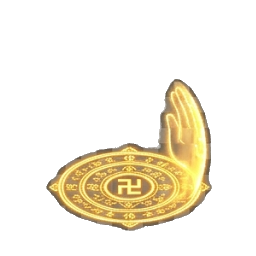
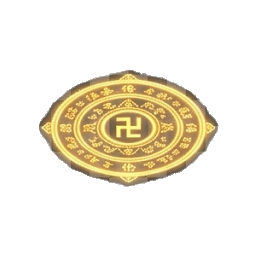
Use 16-frame pre-rendered rotation spritesheet from updated source sheet for La Han Tran

diff --git a/src/game/player.test.js b/src/game/player.test.js
@@ -338,7 +338,7 @@ describe("Player movement controls", () => {
     expect(mockScene.anims.create).toHaveBeenCalledWith(
       expect.objectContaining({
         key: "vfx-la-han-tran-spin",
-        frameRate: 10,
+        frameRate: 12,
         repeat: -1
       })
     );

diff --git a/src/game/remotePlayer.js b/src/game/remotePlayer.js
@@ -271,7 +271,7 @@ export class RemotePlayer {
         this.scene.anims.create({
           key: animKey,
           frames,
-          frameRate: 10,
+          frameRate: 12,
           repeat: -1
         });
       }

diff --git a/src/game/player.js b/src/game/player.js
@@ -600,7 +600,7 @@ export class Player {
         this.scene.anims.create({
           key: animKey,
           frames,
-          frameRate: 10,
+          frameRate: 12,
           repeat: -1
         });
       }

diff --git a/src/game/skills.js b/src/game/skills.js
@@ -80,7 +80,7 @@ const THIEU_LAM_SKILLS = [
       color: 0xffd166,
       shake: 0,
       scale: 0.85,
-      fps: 10
+      fps: 12
     }
   }
 ];

diff --git a/scripts/build_skill_la_han_tran.py b/scripts/build_skill_la_han_tran.py
@@ -1,30 +1,18 @@
-"""Extract and build La Hán Trận VFX spritesheet and icon from Row 2 of the art sheet.
+"""Extract and build La Hán Trận VFX spritesheet and icon from the 16-frame formation sheet.
 
 Run: python3 scripts/build_skill_la_han_tran.py
 """
 
-from collections import deque
 from pathlib import Path
 import numpy as np
 from PIL import Image
 
 ROOT = Path(__file__).resolve().parent.parent
-SOURCE_PATH = Path("/var/folders/zz/38wct_p13gz3pb0f2jmy1h140000gn/T/orca-paste-1792568787980-e88d15ab-99e4-4530-9330-5f1cf34ec4a0.png")
+SOURCE_PATH = Path("/var/folders/zz/38wct_p13gz3pb0f2jmy1h140000gn/T/orca-paste-1792575332575-fe827c2e-aadf-43ec-890a-0a8a4cc87122.png")
 VFX_DIR = ROOT / "public" / "skills" / "vfx" / "la_han_tran"
 ICON_PATH = ROOT / "public" / "skills" / "la_han_tran.png"
 
-ROW_Y0 = 258
-ROW_Y1 = 506
-BASE_Y = 505
-TARGET_BASE_Y = 230
-
-COL_BOUNDS = [
-    (0, 186),
-    (187, 380),
-    (381, 575),
-    (576, 765)
-]
-CENTERS_X = [92.5, 289.0, 481.0, 670.5]
+COL_BOUNDS = [(0, 189), (189, 380), (380, 572), (572, 765)]
 
 
 def key_cell(raw):
@@ -69,38 +57,46 @@ def build():
     sheet_src = Image.open(SOURCE_PATH).convert("RGB")
     src_arr = np.array(sheet_src)
 
-    sheet = Image.new("RGBA", (1024, 256), (0, 0, 0, 0))
+    sheet = Image.new("RGBA", (1024, 1024), (0, 0, 0, 0))
     frames = []
 
-    for i, (x0, x1) in enumerate(COL_BOUNDS):
-        cx = CENTERS_X[i]
-        raw = src_arr[ROW_Y0:ROW_Y1, x0:x1]
-        keyed = key_cell(raw)
+    for r in range(4):
+        y0 = r * 256
+        y1 = (r + 1) * 256
+        for c in range(4):
+            x0, x1 = COL_BOUNDS[c]
+            raw = src_arr[y0:y1, x0:x1]
+            keyed = key_cell(raw)
+            alpha = keyed[:, :, 3].copy()
+            de_fringe(alpha, keyed[:, :, :3].astype(int))
+            keyed[:, :, 3] = alpha
 
-        alpha = keyed[:, :, 3].copy()
-        de_fringe(alpha, keyed[:, :, :3].astype(int))
-        keyed[:, :, 3] = alpha
+            # Find exact centroid of this cell
+            y_idx, x_idx = np.where(alpha > 30)
+            cx_cell = x_idx.mean() if len(x_idx) > 0 else (x1 - x0) / 2
+            cy_cell = y_idx.mean() if len(y_idx) > 0 else 128
 
-        frame = Image.new("RGBA", (256, 256), (0, 0, 0, 0))
-        dst_x = int(round(128 - (cx - x0)))
-        dst_y = TARGET_BASE_Y - (BASE_Y - ROW_Y0)
-        frame.paste(Image.fromarray(keyed, "RGBA"), (dst_x, dst_y))
+            frame = Image.new("RGBA", (256, 256), (0, 0, 0, 0))
+            dst_x = int(round(128 - cx_cell))
+            dst_y = int(round(128 - cy_cell))
+            frame.paste(Image.fromarray(keyed, "RGBA"), (dst_x, dst_y))
 
-        frame_path = VFX_DIR / f"frame-{i + 1}.png"
-        frame.save(frame_path)
-        frames.append(frame)
-        sheet.paste(frame, (i * 256, 0))
+            frames.append(frame)
+            idx = r * 4 + c
+            col = idx % 4
+            row = idx // 4
+            sheet.paste(frame, (col * 256, row * 256))
+            frame.save(VFX_DIR / f"frame-{idx + 1}.png")
 
-    sheet_path = VFX_DIR / "sheet.png"
-    sheet.save(sheet_path)
+    sheet.save(VFX_DIR / "sheet.png")
+    sheet.save(VFX_DIR / "spin_sheet.png")
 
     # Save sheet.json metadata
-    json_path = VFX_DIR / "sheet.json"
-    json_path.write_text(
-        '{\n  "frameWidth": 256,\n  "frameHeight": 256,\n  "frameCount": 4,\n  "fps": 8,\n  "source": "Gemini sheet row 2 (background keyed)"\n}\n'
+    (VFX_DIR / "sheet.json").write_text(
+        '{\n  "frameWidth": 256,\n  "frameHeight": 256,\n  "frameCount": 16,\n  "fps": 12,\n  "source": "New formation sheet (16 rotation frames centered at 128,128)"\n}\n'
     )
 
-    # Build 64x64 icon from Frame 1 (clean golden formation + palm)
+    # Build 64x64 icon from Frame 1
     f1 = frames[0]
     bbox = f1.getbbox()
     crop1 = f1.crop(bbox)
@@ -111,7 +107,7 @@ def build():
     icon = sq.resize((64, 64), Image.Resampling.LANCZOS)
     icon.save(ICON_PATH)
 
-    print(f"Generated {sheet_path}")
+    print(f"Generated {VFX_DIR / 'sheet.png'}")
     print(f"Generated {ICON_PATH}")
 
 
